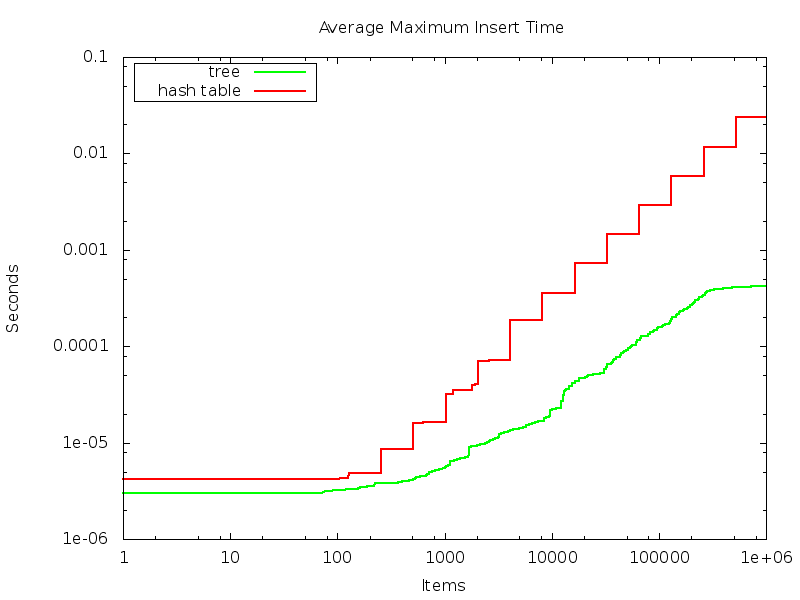
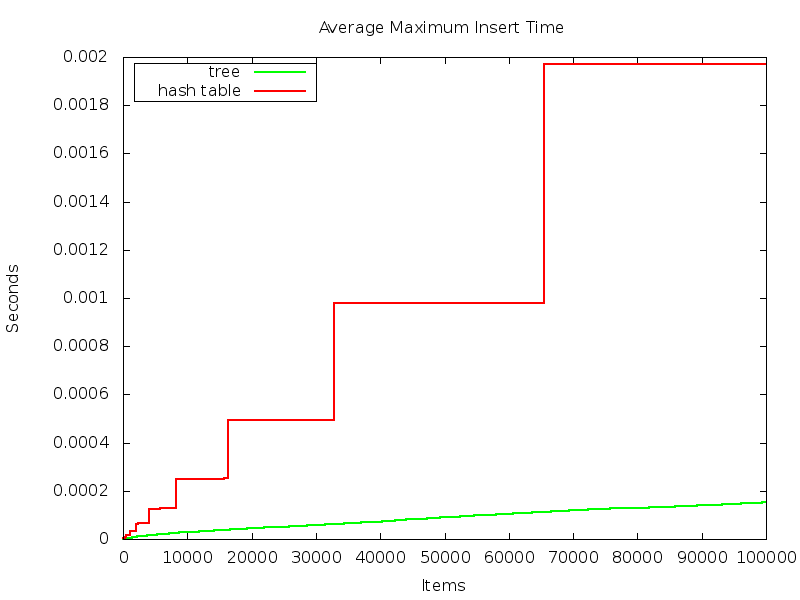
smoother non-logtime graph

diff --git a/src/benchmark/insert-maxtime.cc b/src/benchmark/insert-maxtime.cc
@@ -39,8 +39,8 @@ void print_test(std::vector<std::pair<unsigned, double> > x) {
 }
 
 int main(int argc, char ** argv) {
-  unsigned size = 1000000;//00;
-  unsigned samples = 100;
+  unsigned size = 100000;//00;
+  unsigned samples = 1000;
   if (4 == argc) {
     size = read<unsigned>(argv[2]);
     samples = read<unsigned>(argv[3]);
